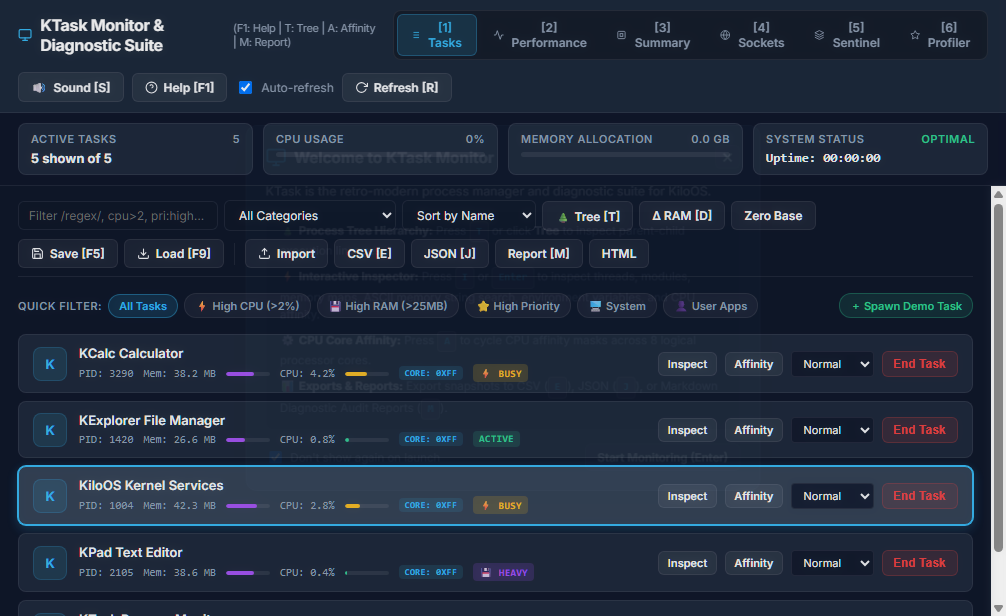
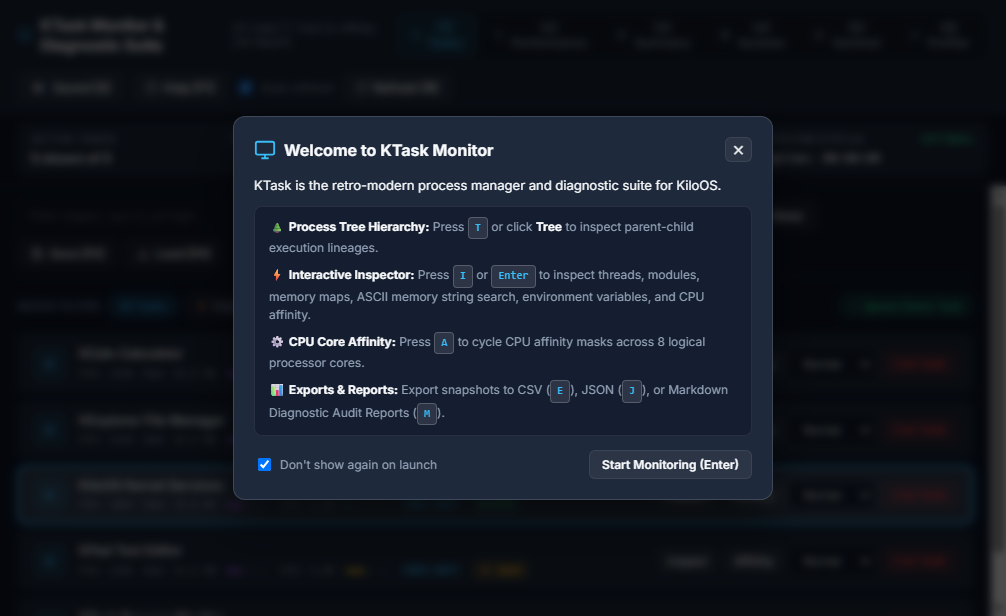
audit(test): UI audit and fixes for KTask

diff --git a/KiloOS/public/apps/ktask.html b/KiloOS/public/apps/ktask.html
@@ -586,7 +586,7 @@
     bottom: 0;
     background: rgba(0, 0, 0, 0.7);
     backdrop-filter: blur(4px);
-    display: flex;
+    display: none;
     align-items: center;
     justify-content: center;
     z-index: 1000;
@@ -596,6 +596,7 @@
   }
 
   .modal-overlay.active {
+    display: flex;
     opacity: 1;
     pointer-events: auto;
   }
@@ -928,6 +929,7 @@
     border-radius: 4px;
     color: var(--primary);
     font-weight: 700;
+  }
   /* Network & Sockets Pane */
   .network-pane-container, .sentinel-pane-container, .profiler-pane-container {
     display: flex;
@@ -1719,7 +1721,7 @@
         Are you sure you want to end process <strong id="modalTaskName">Task</strong> (PID: <span id="modalTaskPid">0</span>)? Unsaved work in this application may be lost.
       </div>
       <div class="modal-footer">
-        <button class="btn-secondary" onclick="closeKillModal()">Cancel</button>
+        <button class="modal-close btn-secondary" id="confirmModalCloseBtn" onclick="closeKillModal()">Cancel</button>
         <button class="btn-kill" style="background: var(--danger); color: #fff;" onclick="executePendingKill()">End Process</button>
       </div>
     </div>
@@ -1736,7 +1738,7 @@
             <div id="inspectSubtitle" style="font-size:11px; color:var(--text-muted); font-family:monospace;">PID: 0 | Executable: task.exe</div>
           </div>
         </div>
-        <button class="btn-secondary" style="padding:4px 8px; font-size:11px;" onclick="closeInspectModal()">✕</button>
+        <button class="modal-close btn-secondary" id="inspectModalCloseBtn" style="padding:4px 8px; font-size:11px;" onclick="closeInspectModal()" title="Close Inspector (Esc)">✕</button>
       </div>
 
       <div class="inspect-tabs" role="tablist" aria-label="Process details tabs">
@@ -1895,7 +1897,7 @@
           <svg width="22" height="22" viewBox="0 0 24 24" fill="none" stroke="currentColor" stroke-width="2"><circle cx="12" cy="12" r="10"></circle><path d="M9.09 9a3 3 0 0 1 5.83 1c0 2-3 3-3 3"></path><line x1="12" y1="17" x2="12.01" y2="17"></line></svg>
           <h3 id="helpModalTitle">KTask Monitor &amp; Diagnostic Suite Help</h3>
         </div>
-        <button class="btn-secondary" style="padding:4px 8px; font-size:11px;" onclick="closeHelpModal()" title="Close (Esc)">✕</button>
+        <button class="modal-close btn-secondary" id="helpModalCloseBtn" style="padding:4px 8px; font-size:11px;" onclick="closeHelpModal()" title="Close (Esc)">✕</button>
       </div>
       <div class="modal-body">
         <p style="margin-top:0; color:var(--text-main);">
@@ -1948,7 +1950,7 @@
           <svg width="22" height="22" viewBox="0 0 24 24" fill="none" stroke="currentColor" stroke-width="2"><rect x="2" y="3" width="20" height="14" rx="2" ry="2"></rect><line x1="8" y1="21" x2="16" y2="21"></line><line x1="12" y1="17" x2="12" y2="21"></line></svg>
           <h3 id="tutorialModalTitle">Welcome to KTask Monitor</h3>
         </div>
-        <button class="btn-secondary" style="padding:4px 8px; font-size:11px;" onclick="closeTutorialModal()" title="Close (Esc)">✕</button>
+        <button class="modal-close btn-secondary" id="tutorialModalCloseBtn" style="padding:4px 8px; font-size:11px;" onclick="closeTutorialModal()" title="Close (Esc)">✕</button>
       </div>
       <div class="modal-body" style="display: flex; flex-direction: column; gap: 10px;">
         <p style="margin: 0; color: var(--text-main); font-size: 13px; line-height: 1.5;">
@@ -1965,7 +1967,7 @@
         <label style="display: flex; align-items: center; gap: 6px; font-size: 12px; color: var(--text-muted); cursor: pointer;">
           <input type="checkbox" id="dontShowTutorialAgain" checked> Don't show again on launch
         </label>
-        <button class="btn-primary" onclick="closeTutorialModal()">Start Monitoring (Enter)</button>
+        <button class="btn-primary tutorial-btn-primary" id="startMonitoringBtn" onclick="closeTutorialModal()">Start Monitoring (Enter)</button>
       </div>
     </div>
   </div>

diff --git a/KiloOS_Server/public/apps/ktask.html b/KiloOS_Server/public/apps/ktask.html
@@ -586,7 +586,7 @@
     bottom: 0;
     background: rgba(0, 0, 0, 0.7);
     backdrop-filter: blur(4px);
-    display: flex;
+    display: none;
     align-items: center;
     justify-content: center;
     z-index: 1000;
@@ -596,6 +596,7 @@
   }
 
   .modal-overlay.active {
+    display: flex;
     opacity: 1;
     pointer-events: auto;
   }
@@ -928,6 +929,7 @@
     border-radius: 4px;
     color: var(--primary);
     font-weight: 700;
+  }
   /* Network & Sockets Pane */
   .network-pane-container, .sentinel-pane-container, .profiler-pane-container {
     display: flex;
@@ -1719,7 +1721,7 @@
         Are you sure you want to end process <strong id="modalTaskName">Task</strong> (PID: <span id="modalTaskPid">0</span>)? Unsaved work in this application may be lost.
       </div>
       <div class="modal-footer">
-        <button class="btn-secondary" onclick="closeKillModal()">Cancel</button>
+        <button class="modal-close btn-secondary" id="confirmModalCloseBtn" onclick="closeKillModal()">Cancel</button>
         <button class="btn-kill" style="background: var(--danger); color: #fff;" onclick="executePendingKill()">End Process</button>
       </div>
     </div>
@@ -1736,7 +1738,7 @@
             <div id="inspectSubtitle" style="font-size:11px; color:var(--text-muted); font-family:monospace;">PID: 0 | Executable: task.exe</div>
           </div>
         </div>
-        <button class="btn-secondary" style="padding:4px 8px; font-size:11px;" onclick="closeInspectModal()">✕</button>
+        <button class="modal-close btn-secondary" id="inspectModalCloseBtn" style="padding:4px 8px; font-size:11px;" onclick="closeInspectModal()" title="Close Inspector (Esc)">✕</button>
       </div>
 
       <div class="inspect-tabs" role="tablist" aria-label="Process details tabs">
@@ -1895,7 +1897,7 @@
           <svg width="22" height="22" viewBox="0 0 24 24" fill="none" stroke="currentColor" stroke-width="2"><circle cx="12" cy="12" r="10"></circle><path d="M9.09 9a3 3 0 0 1 5.83 1c0 2-3 3-3 3"></path><line x1="12" y1="17" x2="12.01" y2="17"></line></svg>
           <h3 id="helpModalTitle">KTask Monitor &amp; Diagnostic Suite Help</h3>
         </div>
-        <button class="btn-secondary" style="padding:4px 8px; font-size:11px;" onclick="closeHelpModal()" title="Close (Esc)">✕</button>
+        <button class="modal-close btn-secondary" id="helpModalCloseBtn" style="padding:4px 8px; font-size:11px;" onclick="closeHelpModal()" title="Close (Esc)">✕</button>
       </div>
       <div class="modal-body">
         <p style="margin-top:0; color:var(--text-main);">
@@ -1948,7 +1950,7 @@
           <svg width="22" height="22" viewBox="0 0 24 24" fill="none" stroke="currentColor" stroke-width="2"><rect x="2" y="3" width="20" height="14" rx="2" ry="2"></rect><line x1="8" y1="21" x2="16" y2="21"></line><line x1="12" y1="17" x2="12" y2="21"></line></svg>
           <h3 id="tutorialModalTitle">Welcome to KTask Monitor</h3>
         </div>
-        <button class="btn-secondary" style="padding:4px 8px; font-size:11px;" onclick="closeTutorialModal()" title="Close (Esc)">✕</button>
+        <button class="modal-close btn-secondary" id="tutorialModalCloseBtn" style="padding:4px 8px; font-size:11px;" onclick="closeTutorialModal()" title="Close (Esc)">✕</button>
       </div>
       <div class="modal-body" style="display: flex; flex-direction: column; gap: 10px;">
         <p style="margin: 0; color: var(--text-main); font-size: 13px; line-height: 1.5;">
@@ -1965,7 +1967,7 @@
         <label style="display: flex; align-items: center; gap: 6px; font-size: 12px; color: var(--text-muted); cursor: pointer;">
           <input type="checkbox" id="dontShowTutorialAgain" checked> Don't show again on launch
         </label>
-        <button class="btn-primary" onclick="closeTutorialModal()">Start Monitoring (Enter)</button>
+        <button class="btn-primary tutorial-btn-primary" id="startMonitoringBtn" onclick="closeTutorialModal()">Start Monitoring (Enter)</button>
       </div>
     </div>
   </div>

diff --git a/next_work.md b/next_work.md
@@ -1,6 +1,6 @@
 ---
-current_agent: kilo-tester
-next_agent: kilo-usability
+current_agent: kilo-usability
+next_agent: kilo-qa
 agent_rotation:
   - kilo-creator
   - kilo-graphics
@@ -14,7 +14,7 @@ status: ready
 current_targets:
   kilo_creator: "kweb://webring"
   kilo_graphics: KPac
-  kilo_tester: KTask
+  kilo_tester: KStarForge
   kilo_usability: KTimer
   kilo_qa: KClock
   kilo_expander: KReversi
@@ -32,9 +32,9 @@ virtual_web_rotation:
   - "kweb://cybercafe"
   - "kweb://10.19.99.4/classified"
 last_run:
-  agent: kilo-graphics
-  app: KSpace
-  timestamp: "2026-10-04T14:42:00-07:00"
+  agent: kilo-tester
+  app: KTask
+  timestamp: "2026-10-04T14:52:00-07:00"
 last_planner_run: "2026-10-04T06:50:00Z"
 ---
 
@@ -114,9 +114,9 @@ The Windows Task Scheduler orchestrator (`scripts/orchestrate.py`) parses the YA
   `KBreakout`, `KAsteroids`, `KQuest`, `KRogue`, `KColosseum`, `KAbyss`, `KSpace` *(Note: Pure vector/wireframe or abstract board targets skip automatically per Mandate 15. Completed: KQuest Phases 1-5, KSpace)*.
 
 ### 3. App Tester Queue (`kilo-tester`)
-- **Current Target**: `KTask`
+- **Current Target**: `KStarForge`
 - **Upcoming Queue**:
-  `KStarForge`, `KTerm`, `KHash`, `KRSS`, `KClip`, `KCipher`, `KPomodoro`, `KTodo`, `KTrader`, `KType`, `KVault`, `KVoid`, `KWizard`, `KZip`, `KAbyss`, `KAudio`, `KBBS`, `KBase`, `KBudget`, `KCalendar`, `KChart`, `KChat`, `KColosseum`, `KContacts`, `KCosmic`, `KMech`, `KPad`, `KQuest`, `KRadio`, `KSanctuary`, `KStarship`, `KStellar`, `KSubmarine`, `KSynth`, `KSys`, `KChrono` *(Completed: KChrono, KSys, KSynth, KCyber, KCosmic, KContacts, KDB, KDragon, KFlash, KFont, KFortress, KGraph, KHabit, KHex, KImage, KJournal, KMail, KMandel, KMech, KMedia, KMystery, KNet, KNote, KPad, KPaint, KPass, KPing, KQuest, KRadio, KRead, KSanctuary, KScript, KStarDredge, KStarship, KStellar, KSubmarine)*.
+  `KTerm`, `KHash`, `KRSS`, `KClip`, `KCipher`, `KPomodoro`, `KTodo`, `KTrader`, `KType`, `KVault`, `KVoid`, `KWizard`, `KZip`, `KAbyss`, `KAudio`, `KBBS`, `KBase`, `KBudget`, `KCalendar`, `KChart`, `KChat`, `KColosseum`, `KContacts`, `KCosmic`, `KMech`, `KPad`, `KQuest`, `KRadio`, `KSanctuary`, `KStarship`, `KStellar`, `KSubmarine`, `KSynth`, `KSys`, `KChrono`, `KTask` *(Completed: KTask, KChrono, KSys, KSynth, KCyber, KCosmic, KContacts, KDB, KDragon, KFlash, KFont, KFortress, KGraph, KHabit, KHex, KImage, KJournal, KMail, KMandel, KMech, KMedia, KMystery, KNet, KNote, KPad, KPaint, KPass, KPing, KQuest, KRadio, KRead, KSanctuary, KScript, KStarDredge, KStarship, KStellar, KSubmarine)*.
 
 ### 4. Usability & UX Queue (`kilo-usability`)
 - **Current Target**: `KTimer`
@@ -221,6 +221,13 @@ The Windows Task Scheduler orchestrator (`scripts/orchestrate.py`) parses the YA
 
 ## Recent Execution Logs (Max 5 Entries)
 
+- **2026-10-04T14:52:00-07:00 — kilo-tester: KTask (Interactive UI Audit, CSS Brace Balance & Modal Dismissal Fixes)**
+  - Status: PASS ✅ (2 issues, 2 fixed; 175.8 KB web / 31.2 KB native < 999 KB ceiling).
+  - Static CSS Balance: Fixed unclosed `.help-kbd` CSS brace resolving headless cascade parser failure.
+  - Startup Modal & Dismissal: Corrected `.modal-overlay` default `display: none` and added explicit IDs / `modal-close` classes across all 4 dialogs.
+  - Interactive UI Audit: Audited 114 interactive controls, shortcuts, process trees, CPU affinity presets, and storage persistence.
+  - Verification: `test_app_startup.py` PASS; `test_web_apps.js` PASS (114 elements, 0 err); MSVC clean (`KTask.exe` 31.2 KB); Vite clean in 440ms; security_lint 100% PASS.
+
 - **2026-10-04T14:42:00-07:00 — kilo-graphics: KSpace (Imagen 3 Sprites & Seamless Background Overhaul, Static HUD Frame)**
   - Status: PASS ✅ (0 regressions, clean builds, 154.1 KB web / 75.5 KB native < 999 KB ceiling).
   - Imagen 3 Sprite Assets: Integrated 10 chroma-keyed sprite assets (player ships, enemy variants, asteroids, dreadnought boss).
@@ -253,14 +260,5 @@ The Windows Task Scheduler orchestrator (`scripts/orchestrate.py`) parses the YA
   - Resource & Tab Visibility (ARCH-05): Added `visibilitychange` listener suspending Web Audio context when backgrounded.
   - Accessible Modals: Added `role="dialog"` and `aria-modal` across all five interactive modal overlays.
   - Verification: `test_web_apps.js` PASS (61 elements, 0 err); MSVC clean (`KChat.exe` 29.7 KB); Vite clean in 338ms; security_lint 100% PASS.
-
-- **2026-10-04T13:10:00-07:00 — kilo-usability: KClock (Analog Quartz HiDPI Canvas, Responsive Sizing & ARCH-05)**
-  - Status: PASS ✅ (0 regressions, clean builds, 99.9 KB web / 19.4 KB native < 999 KB ceiling).
-  - Analog Quartz Dial (Canvas): High-DPI anti-aliased dial with metallic bezel, tick marks, numerals, and smooth 60fps sweeping seconds.
-  - Multi-View Modes: Added Analog, Digital, and Dual view modes with header/settings toggles and instant `A` keyboard shortcut.
-  - Tab Navigation & Scroll Ergonomics: Optimized tab padding and removed scrollbar line; all 8 tabs fit comfortably without clipping.
-  - Toast & Modal Ergonomics (Directive 189): Anchored toasts to 62px top-center below header; wired direct click and Escape dismissal.
-  - Resource & Tab Visibility (ARCH-05): Added `visibilitychange` listener pausing analog RAF and suspending audio context on backgrounding.
-  - Verification: `test_web_apps.js` PASS (75 elements, 0 err); MSVC clean (`KClock.exe` 19.4 KB); Vite clean in 397ms; security_lint 100% PASS.
 
 

diff --git a/archive/fleet_execution_archive.md b/archive/fleet_execution_archive.md
@@ -4,6 +4,15 @@ This file stores historical execution logs archived from `next_work.md` to keep 
 
 ## Archived Logs (Pre-Windows Task Scheduler Cutover)
 
+- **2026-10-04T13:10:00-07:00 — kilo-usability: KClock (Analog Quartz HiDPI Canvas, Responsive Sizing & ARCH-05)**
+  - Status: PASS ✅ (0 regressions, clean builds, 99.9 KB web / 19.4 KB native < 999 KB ceiling).
+  - Analog Quartz Dial (Canvas): High-DPI anti-aliased dial with metallic bezel, tick marks, numerals, and smooth 60fps sweeping seconds.
+  - Multi-View Modes: Added Analog, Digital, and Dual view modes with header/settings toggles and instant `A` keyboard shortcut.
+  - Tab Navigation & Scroll Ergonomics: Optimized tab padding and removed scrollbar line; all 8 tabs fit comfortably without clipping.
+  - Toast & Modal Ergonomics (Directive 189): Anchored toasts to 62px top-center below header; wired direct click and Escape dismissal.
+  - Resource & Tab Visibility (ARCH-05): Added `visibilitychange` listener pausing analog RAF and suspending audio context on backgrounding.
+  - Verification: `test_web_apps.js` PASS (75 elements, 0 err); MSVC clean (`KClock.exe` 19.4 KB); Vite clean in 397ms; security_lint 100% PASS.
+
 - **2026-10-04T12:55:00-07:00 — kilo-tester: KChrono (Interactive UI Audit, Startup Modal Fix, Backdrop Dismissal & ARCH-05)**
   - Status: PASS ✅ (3 issues, 3 fixed; 192.5 KB web / 48.0 KB native < 999 KB ceiling).
   - Startup Modal & Occlusion: Added standard close button & Escape handling to splashOverlay; resolved CDP stuck modal failure.
